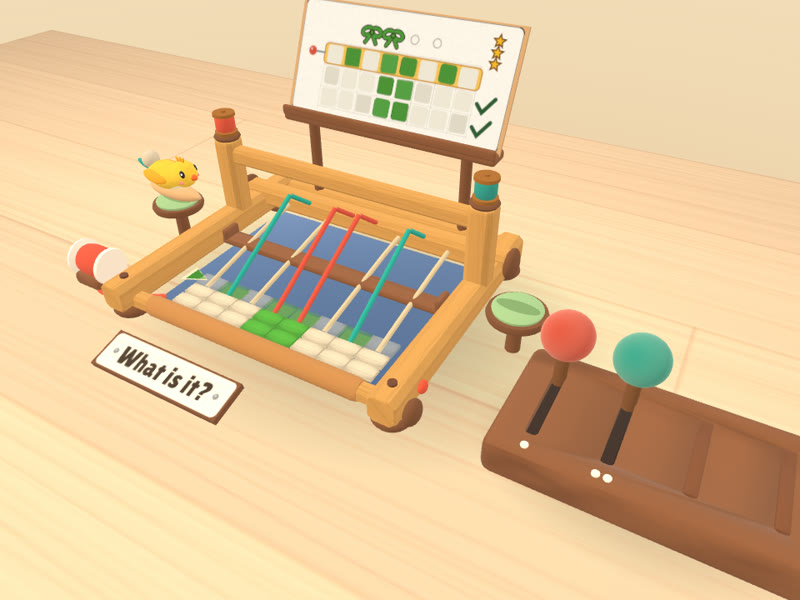
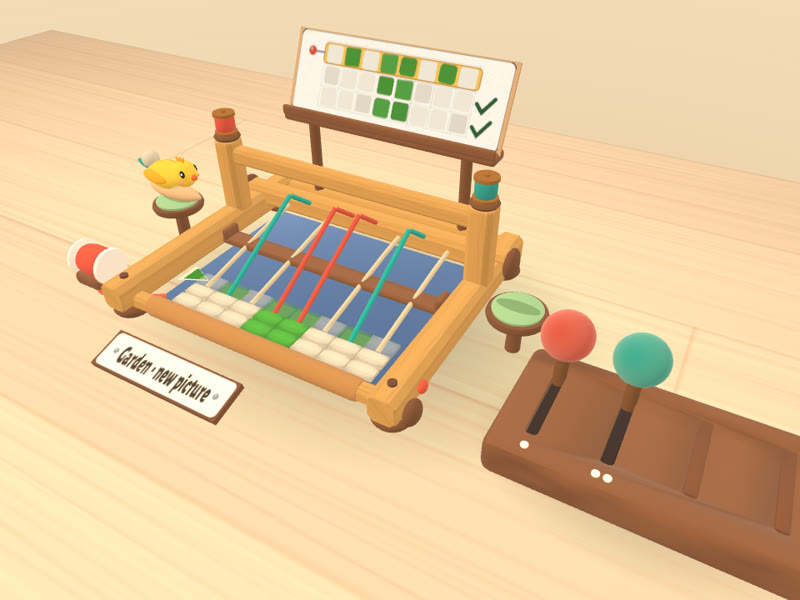
Deploy 237b168

Changed region(s): [[0.375, 0.0, 0.6875, 0.12], [0.125, 0.57, 0.2812, 0.66], [0.2188, 0.45, 0.25, 0.48]]

diff --git a/assets/index-FcNGhAyk.js b/assets/index-FcNGhAyk.js
@@ -168,7 +168,7 @@ uniform float uLampOn[2];`).replace("#include <dithering_fragment>",`vec3 vd = n
       </svg>
       <h1>You're the caller</h1>
     </header>
-    <p class="lead">Only you can see the picture. Read the yellow row to your weaver, and tap a square to put a pin on their loom. You'll hear each row as it's woven.</p>
+    <p class="lead">Only you can see the picture. Describe the yellow row to your weaver. Tap up to two squares a row to pin them on their loom; the rest you say. You'll hear each row as it's woven.</p>
     <div class="cardwrap"></div>
     <div class="tools">
       <button type="button" class="patch ring">Ring Pip</button>
@@ -183,7 +183,7 @@ uniform float uLampOn[2];`).replace("#include <dithering_fragment>",`vec3 vd = n
         <button type="button" class="patch keep">Save postcard</button>
         <button type="button" class="patch soft close">Back to the picture</button>
       </div>
-    </div>`,o.querySelector(".cardwrap").appendChild(i.element),i.element.className="card",i.element.setAttribute("role","img"),Object.assign(o,{card:i});const a=o.querySelector(".status"),n=o.querySelector(".ring"),h=o.querySelector(".clear"),l=o.querySelector(".album"),c=o.querySelector(".album .strip"),d=o.querySelector(".post");o.querySelector(".leave").addEventListener("click",e),document.body.appendChild(o);let u=-1,f=-1,p=0,m=0,v=null,g=!1,y=ec();const R=(C,b)=>{(p>>C&1)!==(b?1:0)&&(p=b?p|1<<C:p&~(1<<C),r.send({k:"pin",i:C,on:b}))},S=C=>{if(C)for(let b=0;b<k;b++)R(b,!1);else p=0},w=2;i.element.addEventListener("click",C=>{if(T.resume(),!v||v.ph!=="play")return;const b=i.element.getBoundingClientRect(),E=i.cellAt((C.clientX-b.left)/b.width,(C.clientY-b.top)/b.height);if(!E)return;const G=!(p>>E.i&1);let L=0;for(let Y=0;Y<k;Y++)L+=p>>Y&1;if(G&&L>=w){m=performance.now()+2600,navigator.vibrate?.([8,40,8]),q(v);return}R(E.i,G),navigator.vibrate?.(12),q(v)}),h.addEventListener("click",()=>{S(!0),v&&q(v)});let z=0;n.addEventListener("click",()=>{T.resume();const C=performance.now();C-z<1500||(z=C,r.send({k:"ring"}),navigator.vibrate?.([10,60,10]))});let D=null;const N=C=>{const b=cn(C,1040,680,s.font);b.setAttribute("role","img"),b.setAttribute("aria-label",`Postcard: ${Le(C.l).name}, woven together`);const E=d.querySelector(".pcwrap");E.textContent="",E.appendChild(b),D=b,d.hidden=!1,d.querySelector(".close").focus()};d.querySelector(".close").addEventListener("click",()=>d.hidden=!0),d.querySelector(".keep").addEventListener("click",()=>{if(!D)return;const C=document.createElement("a");C.download="loomsong-postcard.png",C.href=D.toDataURL("image/png"),C.click()});const M=()=>{l.hidden=y.length===0,c.textContent="";for(const C of y.slice().reverse()){const b=cn(C,216,144,s.font,!0);b.title=Le(C.l).name,b.addEventListener("click",()=>N(C)),c.appendChild(b)}};M();const $=(C,b)=>{const E=b.length-1,G=b[E];T.setRoot(Sn(C.chapter,C.rootMidi));let L=0;for(let Y=0;Y<k;Y++){const V=E%2===0?Y:k-1-Y;X(G,V)&&T.pluck(V,.35,.05+L++*.09,.3)}T.verdict(Oi(C,b)[E]==="match")},q=C=>{v=C;const b=Le(C.l);if(C.l!==u&&(u=C.l,i.paper=b.chapter==="night"?"#b9beea":null,i.sparkles=b.chapter==="night",i.weft=b.weft??null,i.setPicture(b.color??null,b.par)),C.r.length!==f){const W=f>=0&&C.r.length===f+1;f=C.r.length,S(!1),W&&$(b,C.r)}const E=C.ph==="play";if(g&&!E&&C.st>0){const W=new Date().toISOString().slice(0,10),H={l:C.l,stars:C.st,day:W};y=[...y.filter(B=>!(B.l===H.l&&B.day===H.day)),H],sc(y),M(),N(H)}g=E,i.pinned=E?p:0;const G=E?"What is it?":b.name;i.draw(G,b.target,Oi(b,C.r),E?0:C.st),h.disabled=!p||!E;const L=Math.min(C.r.length+1,b.target.length),Y=b.target[L-1]??0;let V=0;for(let W=0;W<k;W++)X(Y,W)&&V++;const nt=`${V} coloured square${V===1?"":"s"}`;a.textContent=E&&performance.now()<m?"Two pins a row: say the rest out loud":E?`Row ${L} of ${b.target.length}: ${nt}`:`${b.name} woven! ${"★".repeat(C.st)}`,i.element.setAttribute("aria-label",`The picture card. Row ${L} has ${nt}.`)};let F=null;r.onMessage(C=>{Fn(C)&&(F=C)});const U=window.setInterval(()=>{if(!F||!De)return;const C=F;F=null,q(C)},100);De={el:o,stop:()=>window.clearInterval(U)}}function cn(r,t,e,s,i=!1){const o=Le(r.l),a=document.createElement("canvas");a.width=t,a.height=e;const n=a.getContext("2d"),h=t/1040;n.fillStyle="#f6ecd8",n.fillRect(0,0,t,e);let l=r.l*9301+49297;const c=()=>(l=(l*9301+49297)%233280)/233280;n.fillStyle="rgba(120,80,40,0.07)";for(let M=0;M<900*h*h+40;M++)n.fillRect(c()*t,c()*e,2*h+.5,2*h+.5);n.strokeStyle="#d9533c",n.lineWidth=10*h,n.strokeRect(14*h,14*h,t-28*h,e-28*h);const d=o.target.length,u=Math.min(440*h,(e-120*h)/d*k),f=u/k,p=60*h,m=(e-f*d)/2;n.fillStyle="#efe2c6",n.fillRect(p-16*h,m-16*h,u+32*h,f*d+32*h),n.setLineDash([10*h,7*h]),n.strokeStyle="#b48a5c",n.lineWidth=3*h,n.strokeRect(p-8*h,m-8*h,u+16*h,f*d+16*h),n.setLineDash([]);const v=ln(o.color??se.toy.palette.weft);for(let M=0;M<d;M++){const $=m+(d-1-M)*f;for(let q=0;q<k;q++){const F=X(o.target[M],q),U=!F&&o.target[M]&256&&o.weft!=null;n.fillStyle=F?v:U?ln(o.weft):"#f8f1e2";const C=f*.08;n.fillRect(p+q*f+C,$+C,f-C*2,f-C*2)}}if(i)return a;const g=t*.58;n.strokeStyle="#c9b79c",n.lineWidth=3*h,n.beginPath(),n.moveTo(g,70*h),n.lineTo(g,e-70*h),n.stroke(),n.fillStyle="#3b2a20",n.font=`400 ${46*h}px ${s}`,n.fillText(o.name,g+36*h,210*h),n.font=`600 ${26*h}px system-ui, sans-serif`,n.fillStyle="#5a4030",n.fillText("Woven together",g+36*h,256*h),n.fillText("You called it, they wove it.",g+36*h,296*h),n.fillStyle="#d9533c",n.font=`400 ${36*h}px ${s}`,n.fillText("★".repeat(r.stars)+"☆".repeat(Math.max(0,3-r.stars)),g+36*h,352*h),n.strokeStyle="#c9b79c",n.lineWidth=2*h;for(let M=0;M<3;M++)n.beginPath(),n.moveTo(g+36*h,(430+M*58)*h),n.lineTo(t-60*h,(430+M*58)*h),n.stroke();n.fillStyle="#8a6a50",n.font=`600 ${22*h}px system-ui, sans-serif`;const[y,R,S]=r.day.split("-").map(Number),w=new Date(y,(R||1)-1,S||1).toLocaleDateString("en-GB",{day:"numeric",month:"short",year:"numeric"});n.fillText(w,g+36*h,534*h);const z=t-200*h,D=50*h,N=140*h;n.fillStyle="#fff8ea";for(let M=0;M<=7;M++)for(const[$,q]of[[z+M*N/7,D],[z+M*N/7,D+N],[z,D+M*N/7],[z+N,D+M*N/7]])n.beginPath(),n.arc($,q,8*h,0,Math.PI*2),n.fill();n.fillRect(z,D,N,N),n.fillStyle="#2a9d8f",n.fillRect(z+12*h,D+12*h,N-24*h,N-24*h),n.fillStyle="#f7c948",n.beginPath(),n.ellipse(z+62*h,D+82*h,34*h,26*h,0,0,Math.PI*2),n.fill(),n.beginPath(),n.arc(z+80*h,D+58*h,20*h,0,Math.PI*2),n.fill(),n.fillStyle="#f08a3c",n.beginPath(),n.moveTo(z+98*h,D+54*h),n.lineTo(z+114*h,D+60*h),n.lineTo(z+98*h,D+66*h),n.fill(),n.fillStyle="#2b2320",n.beginPath(),n.arc(z+86*h,D+54*h,4*h,0,Math.PI*2),n.fill(),n.strokeStyle="rgba(59,42,32,0.45)",n.lineWidth=3*h,n.beginPath(),n.arc(z-10*h,D+N-10*h,46*h,0,Math.PI*2),n.stroke(),n.beginPath(),n.arc(z-10*h,D+N-10*h,36*h,0,Math.PI*2),n.stroke();for(let M=0;M<3;M++){n.beginPath();for(let $=0;$<120;$+=4){const q=z+40*h+$*h,F=D+N-30*h+M*14*h+Math.sin($/9)*4*h;$===0?n.moveTo(q,F):n.lineTo(q,F)}n.stroke()}return a}function Hn(){De&&(De.stop(),De.el.remove(),De=null)}async function oc(){try{const r=navigator.xr;return!(r&&await r.isSessionSupported("immersive-ar"))}catch{return!0}}function nc(r){const t=document.createElement("div");t.id="landing";const e=b=>`./site/${b}`;t.innerHTML=`
+    </div>`,o.querySelector(".cardwrap").appendChild(i.element),i.element.className="card",i.element.setAttribute("role","img"),Object.assign(o,{card:i});const a=o.querySelector(".status"),n=o.querySelector(".ring"),h=o.querySelector(".clear"),l=o.querySelector(".album"),c=o.querySelector(".album .strip"),d=o.querySelector(".post");o.querySelector(".leave").addEventListener("click",e),document.body.appendChild(o);let u=-1,f=-1,p=0,m=0,v=null,g=!1,y=ec();const R=(C,b)=>{(p>>C&1)!==(b?1:0)&&(p=b?p|1<<C:p&~(1<<C),r.send({k:"pin",i:C,on:b}))},S=C=>{if(C)for(let b=0;b<k;b++)R(b,!1);else p=0},w=2;i.element.addEventListener("click",C=>{if(T.resume(),!v||v.ph!=="play")return;const b=i.element.getBoundingClientRect(),E=i.cellAt((C.clientX-b.left)/b.width,(C.clientY-b.top)/b.height);if(!E)return;const G=!(p>>E.i&1);let L=0;for(let Y=0;Y<k;Y++)L+=p>>Y&1;if(G&&L>=w){m=performance.now()+2600,navigator.vibrate?.([8,40,8]),q(v);return}R(E.i,G),navigator.vibrate?.(12),q(v)}),h.addEventListener("click",()=>{S(!0),v&&q(v)});let z=0;n.addEventListener("click",()=>{T.resume();const C=performance.now();C-z<1500||(z=C,r.send({k:"ring"}),navigator.vibrate?.([10,60,10]))});let D=null;const N=C=>{const b=cn(C,1040,680,s.font);b.setAttribute("role","img"),b.setAttribute("aria-label",`Postcard: ${Le(C.l).name}, woven together`);const E=d.querySelector(".pcwrap");E.textContent="",E.appendChild(b),D=b,d.hidden=!1,d.querySelector(".close").focus()};d.querySelector(".close").addEventListener("click",()=>d.hidden=!0),d.querySelector(".keep").addEventListener("click",()=>{if(!D)return;const C=document.createElement("a");C.download="loomsong-postcard.png",C.href=D.toDataURL("image/png"),C.click()});const M=()=>{l.hidden=y.length===0,c.textContent="";for(const C of y.slice().reverse()){const b=cn(C,216,144,s.font,!0);b.title=Le(C.l).name,b.addEventListener("click",()=>N(C)),c.appendChild(b)}};M();const $=(C,b)=>{const E=b.length-1,G=b[E];T.setRoot(Sn(C.chapter,C.rootMidi));let L=0;for(let Y=0;Y<k;Y++){const V=E%2===0?Y:k-1-Y;X(G,V)&&T.pluck(V,.35,.05+L++*.09,.3)}T.verdict(Oi(C,b)[E]==="match")},q=C=>{v=C;const b=Le(C.l);if(C.l!==u&&(u=C.l,i.paper=b.chapter==="night"?"#b9beea":null,i.sparkles=b.chapter==="night",i.weft=b.weft??null,i.setPicture(b.color??null,b.chapter==="garden"?0:b.par)),C.r.length!==f){const W=f>=0&&C.r.length===f+1;f=C.r.length,S(!1),W&&$(b,C.r)}const E=C.ph==="play";if(g&&!E&&C.st>0){const W=new Date().toISOString().slice(0,10),H={l:C.l,stars:C.st,day:W};y=[...y.filter(B=>!(B.l===H.l&&B.day===H.day)),H],sc(y),M(),N(H)}g=E,i.pinned=E?p:0;const G=E?"What is it?":b.name;i.draw(G,b.target,Oi(b,C.r),E?0:C.st),h.disabled=!p||!E;const L=Math.min(C.r.length+1,b.target.length),Y=b.target[L-1]??0;let V=0;for(let W=0;W<k;W++)X(Y,W)&&V++;const nt=`${V} coloured square${V===1?"":"s"}`;a.textContent=E&&performance.now()<m?"Two pins a row: say the rest out loud":E?`Row ${L} of ${b.target.length}: ${nt}`:`${b.name} woven! ${"★".repeat(C.st)}`,i.element.setAttribute("aria-label",`The picture card. Row ${L} has ${nt}.`)};let F=null;r.onMessage(C=>{Fn(C)&&(F=C)});const U=window.setInterval(()=>{if(!F||!De)return;const C=F;F=null,q(C)},100);De={el:o,stop:()=>window.clearInterval(U)}}function cn(r,t,e,s,i=!1){const o=Le(r.l),a=document.createElement("canvas");a.width=t,a.height=e;const n=a.getContext("2d"),h=t/1040;n.fillStyle="#f6ecd8",n.fillRect(0,0,t,e);let l=r.l*9301+49297;const c=()=>(l=(l*9301+49297)%233280)/233280;n.fillStyle="rgba(120,80,40,0.07)";for(let M=0;M<900*h*h+40;M++)n.fillRect(c()*t,c()*e,2*h+.5,2*h+.5);n.strokeStyle="#d9533c",n.lineWidth=10*h,n.strokeRect(14*h,14*h,t-28*h,e-28*h);const d=o.target.length,u=Math.min(440*h,(e-120*h)/d*k),f=u/k,p=60*h,m=(e-f*d)/2;n.fillStyle="#efe2c6",n.fillRect(p-16*h,m-16*h,u+32*h,f*d+32*h),n.setLineDash([10*h,7*h]),n.strokeStyle="#b48a5c",n.lineWidth=3*h,n.strokeRect(p-8*h,m-8*h,u+16*h,f*d+16*h),n.setLineDash([]);const v=ln(o.color??se.toy.palette.weft);for(let M=0;M<d;M++){const $=m+(d-1-M)*f;for(let q=0;q<k;q++){const F=X(o.target[M],q),U=!F&&o.target[M]&256&&o.weft!=null;n.fillStyle=F?v:U?ln(o.weft):"#f8f1e2";const C=f*.08;n.fillRect(p+q*f+C,$+C,f-C*2,f-C*2)}}if(i)return a;const g=t*.58;n.strokeStyle="#c9b79c",n.lineWidth=3*h,n.beginPath(),n.moveTo(g,70*h),n.lineTo(g,e-70*h),n.stroke(),n.fillStyle="#3b2a20",n.font=`400 ${46*h}px ${s}`,n.fillText(o.name,g+36*h,210*h),n.font=`600 ${26*h}px system-ui, sans-serif`,n.fillStyle="#5a4030",n.fillText("Woven together",g+36*h,256*h),n.fillText("You called it, they wove it.",g+36*h,296*h),n.fillStyle="#d9533c",n.font=`400 ${36*h}px ${s}`,n.fillText("★".repeat(r.stars)+"☆".repeat(Math.max(0,3-r.stars)),g+36*h,352*h),n.strokeStyle="#c9b79c",n.lineWidth=2*h;for(let M=0;M<3;M++)n.beginPath(),n.moveTo(g+36*h,(430+M*58)*h),n.lineTo(t-60*h,(430+M*58)*h),n.stroke();n.fillStyle="#8a6a50",n.font=`600 ${22*h}px system-ui, sans-serif`;const[y,R,S]=r.day.split("-").map(Number),w=new Date(y,(R||1)-1,S||1).toLocaleDateString("en-GB",{day:"numeric",month:"short",year:"numeric"});n.fillText(w,g+36*h,534*h);const z=t-200*h,D=50*h,N=140*h;n.fillStyle="#fff8ea";for(let M=0;M<=7;M++)for(const[$,q]of[[z+M*N/7,D],[z+M*N/7,D+N],[z,D+M*N/7],[z+N,D+M*N/7]])n.beginPath(),n.arc($,q,8*h,0,Math.PI*2),n.fill();n.fillRect(z,D,N,N),n.fillStyle="#2a9d8f",n.fillRect(z+12*h,D+12*h,N-24*h,N-24*h),n.fillStyle="#f7c948",n.beginPath(),n.ellipse(z+62*h,D+82*h,34*h,26*h,0,0,Math.PI*2),n.fill(),n.beginPath(),n.arc(z+80*h,D+58*h,20*h,0,Math.PI*2),n.fill(),n.fillStyle="#f08a3c",n.beginPath(),n.moveTo(z+98*h,D+54*h),n.lineTo(z+114*h,D+60*h),n.lineTo(z+98*h,D+66*h),n.fill(),n.fillStyle="#2b2320",n.beginPath(),n.arc(z+86*h,D+54*h,4*h,0,Math.PI*2),n.fill(),n.strokeStyle="rgba(59,42,32,0.45)",n.lineWidth=3*h,n.beginPath(),n.arc(z-10*h,D+N-10*h,46*h,0,Math.PI*2),n.stroke(),n.beginPath(),n.arc(z-10*h,D+N-10*h,36*h,0,Math.PI*2),n.stroke();for(let M=0;M<3;M++){n.beginPath();for(let $=0;$<120;$+=4){const q=z+40*h+$*h,F=D+N-30*h+M*14*h+Math.sin($/9)*4*h;$===0?n.moveTo(q,F):n.lineTo(q,F)}n.stroke()}return a}function Hn(){De&&(De.stop(),De.el.remove(),De=null)}async function oc(){try{const r=navigator.xr;return!(r&&await r.isSessionSupported("immersive-ar"))}catch{return!0}}function nc(r){const t=document.createElement("div");t.id="landing";const e=b=>`./site/${b}`;t.innerHTML=`
     <div class="frame">
       <i class="spool tl"></i><i class="spool tr"></i><i class="spool bl"></i><i class="spool br"></i>
         <header class="rail"><div class="mark plate">

diff --git a/index.html b/index.html
@@ -285,7 +285,7 @@
         #enter-xr { transition: none; }
       }
     </style>
-    <script type="module" crossorigin src="./assets/index-Cb6osbWI.js"></script>
+    <script type="module" crossorigin src="./assets/index-FcNGhAyk.js"></script>
     <link rel="modulepreload" crossorigin href="./assets/light-system-DswB_E67.js">
   </head>
   <body>
